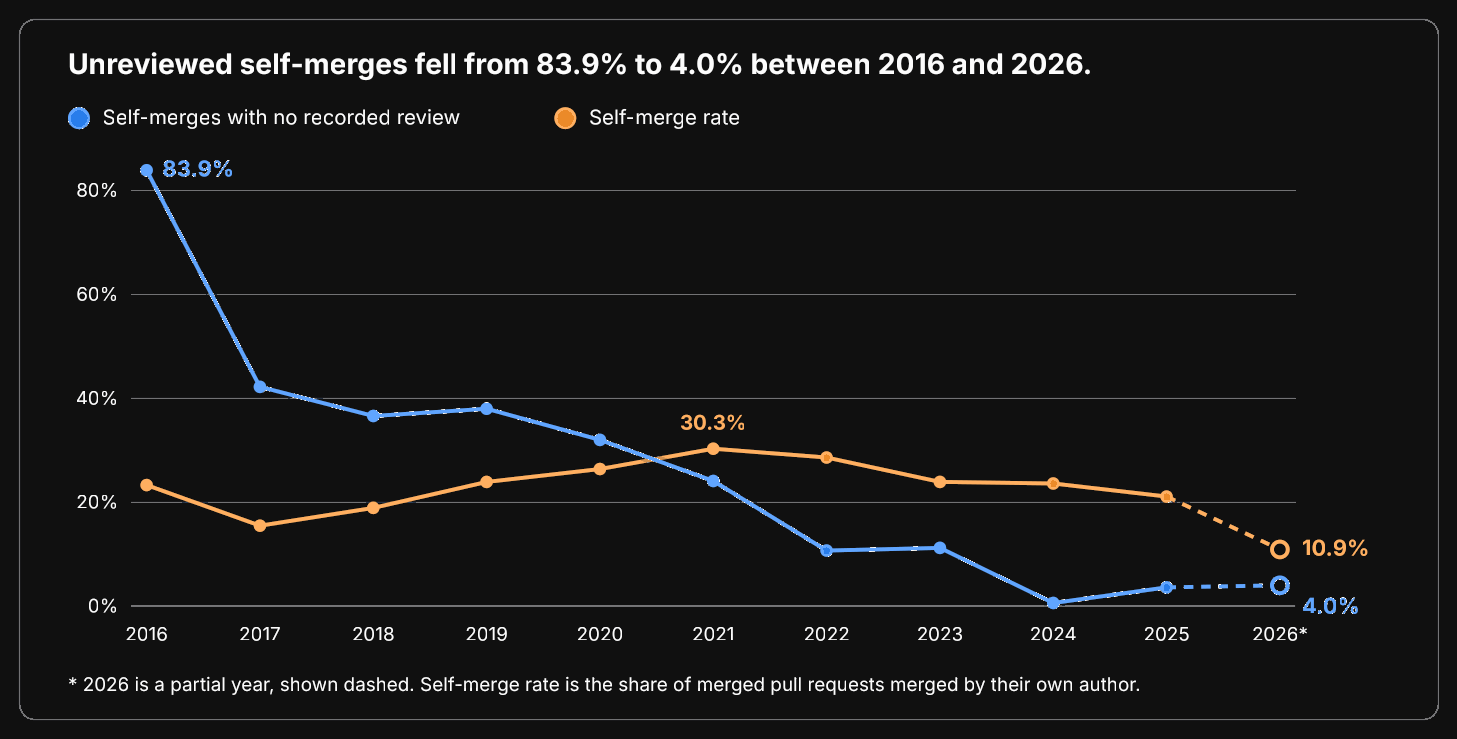
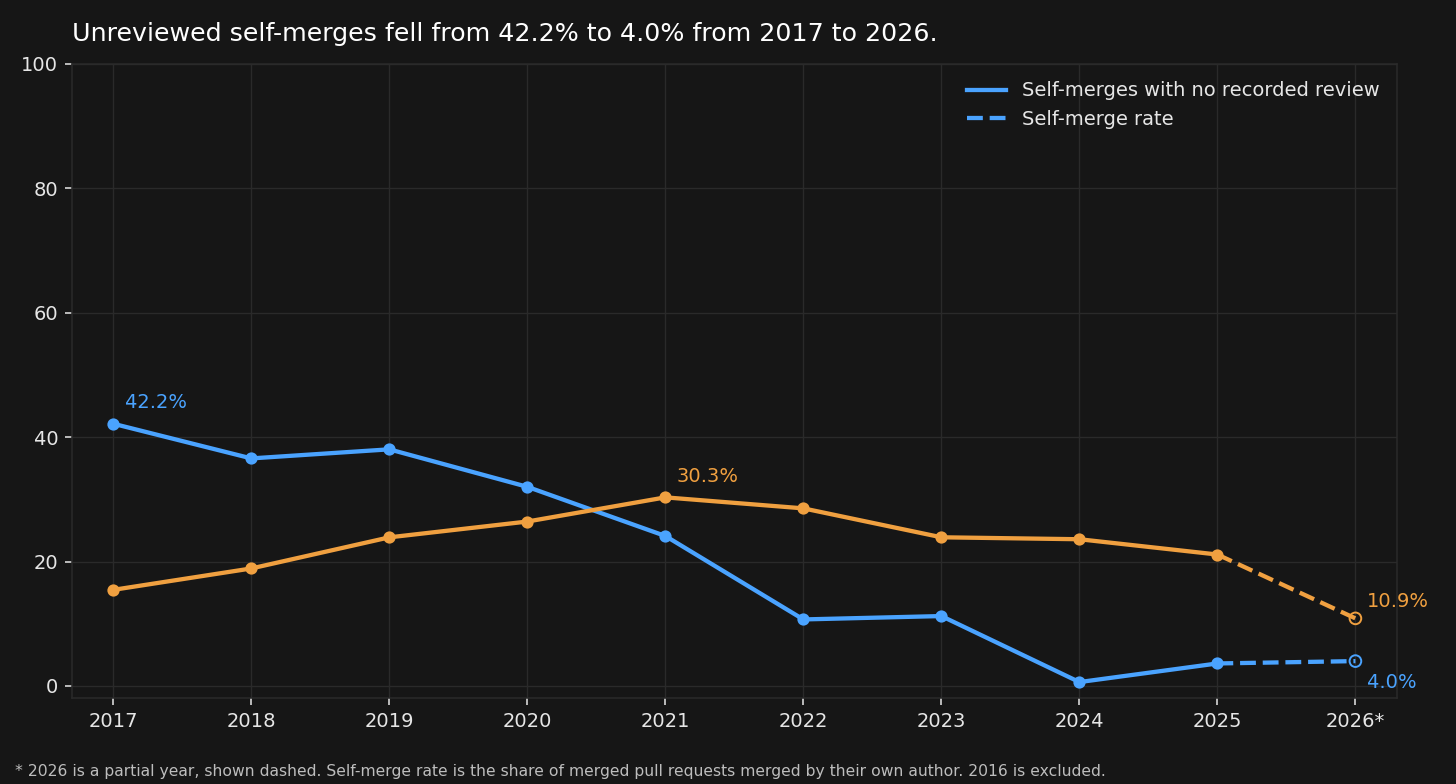
docs: start the article review charts in 2017
The images still opened at 83.9 percent in 2016. They now start at 42.2 percent in 2017, and the cache key changes with them.

diff --git a/articles/who-governs-bitcoins-code/index.html b/articles/who-governs-bitcoins-code/index.html
@@ -131,8 +131,8 @@
 <p>Diligence asks about funding concentration because it is how influence enters an organization without a vote. The people who control the merge gate depend on a small number of discretionary grants, many renewed annually, with no disclosure owed to holders. A 2023 budget of $8.4 million maintains software that now secures $111 billion in US ETF assets alone.</p>
 <h2 id="review-practice-has-improved-and-it-rests-on-custom">Review practice has improved, and it rests on custom</h2>
 <figure class="chart-preserve">
-<img src="charts/review-practice.png?v=dark3" alt="Unreviewed self-merges fell from 42.2% in 2017 to 4.0% in 2026, yet no rule requires review. Maintainer-merged pull requests, 2016 to 2026. Self-merges with zero reviews fall from 42.2% in 2017 to 4.0% in 2026, with 30.3% in 2021 marked. Self-merge rate falls from about 25% to 10.9%. Average review depth on maintainer-merged pull requests rises from 1.0 in 2016 to 10.0 in 2025 and 7.8 in 2026. A written rule sets no minimum review count.">
-<figcaption>BTCDecoded Bitcoin Core governance research, TEMPORAL_ANALYSIS_REPORT, 2016 to 2026 to date (2026 is a partial year). GitHub review records exist from 2016.</figcaption>
+<img src="charts/review-practice.png?v=2017" alt="Unreviewed self-merges fell from 42.2% in 2017 to 4.0% in 2026, yet no rule requires review. The chart starts in 2017. Self-merge rate is 30.3% in 2021 and 10.9% in partial 2026. Average review depth ends at 7.8. A written rule sets no minimum review count.">
+<figcaption>BTCDecoded Bitcoin Core governance research, TEMPORAL_ANALYSIS_REPORT, 2017 to 2026 to date (2026 is a partial year). 2016 is excluded because it is the first year review objects exist.</figcaption>
 </figure>
 
 <p>Since GitHub review records begin in 2016, average review depth on maintainer-merged pull requests has risen from 1.0 to 7.8, and zero-review self-merges have fallen from 42.2% of self-merges in 2017 to 4.0%. Active reviewers grew from 22 to 94 by 2021, and pull requests per reviewer fell from 71 to 21. A 2025 <a href="https://blog.quarkslab.com/bitcoin-core-audit.html">Quarkslab audit</a> called Core the most mature and well tested codebase its engineers had assessed and found no high-impact issues in its peer-to-peer scope.</p>

diff --git a/articles/bitcoin-has-governance/index.html b/articles/bitcoin-has-governance/index.html
@@ -157,7 +157,7 @@
 </ul>
 <p>Review practice has tightened since 2016, while the self-merge rate stayed high until 2021. The self-merge rate is the share of merged pull requests merged by their own author.</p>
 <figure class="chart-preserve">
-<img src="charts/self-merge-line.png?v=dark3" alt="Unreviewed self-merges fell from 42.2% in 2017 to 4.0% in 2026. The chart still draws 2016, and that year is not the baseline. Self-merges with no recorded review are charted from 2016, and the cited baseline is 42.2% in 2017, pass 30.3% in 2021, and end at 4.0% in partial 2026, shown dashed. Self-merge rate ends at 10.9% in partial 2026. Self-merge rate is the share of merged pull requests merged by their own author.">
+<img src="charts/self-merge-line.png?v=2017" alt="Unreviewed self-merges fell from 42.2% in 2017 to 4.0% in 2026. The chart starts in 2017. Self-merges with no recorded review pass 30.3% in 2021 and end at 4.0% in partial 2026, shown dashed. Self-merge rate ends at 10.9% in partial 2026.">
 </figure>
 
 <p>Funding is concentrated as well. A 1A1z report found that $8.4 million was spent on Bitcoin developers in 2023. Among the eight sponsors that rely only on donations, the top three receive 62.25% of their funding from a single source, Jack Dorsey.</p>

diff --git a/articles/bitcoin-has-governance/index.md b/articles/bitcoin-has-governance/index.md
@@ -83,7 +83,7 @@ The author's analysis of about 17,000 merged Bitcoin Core pull requests through 
 Review practice has tightened since 2016, while the self-merge rate stayed high until 2021. The self-merge rate is the share of merged pull requests merged by their own author.
 
 <figure class="chart-preserve">
-<img src="charts/self-merge-line.png?v=dark3" alt="Unreviewed self-merges fell from 42.2% in 2017 to 4.0% in 2026. The chart still draws 2016, and that year is not the baseline. Self-merges with no recorded review are charted from 2016, and the cited baseline is 42.2% in 2017, pass 30.3% in 2021, and end at 4.0% in partial 2026, shown dashed. Self-merge rate ends at 10.9% in partial 2026. Self-merge rate is the share of merged pull requests merged by their own author.">
+<img src="charts/self-merge-line.png?v=2017" alt="Unreviewed self-merges fell from 42.2% in 2017 to 4.0% in 2026. The chart starts in 2017. Self-merges with no recorded review pass 30.3% in 2021 and end at 4.0% in partial 2026, shown dashed. Self-merge rate ends at 10.9% in partial 2026.">
 </figure>
 
 Funding is concentrated as well. A 1A1z report found that $8.4 million was spent on Bitcoin developers in 2023. Among the eight sponsors that rely only on donations, the top three receive 62.25% of their funding from a single source, Jack Dorsey.

diff --git a/articles/who-governs-bitcoins-code/index.md b/articles/who-governs-bitcoins-code/index.md
@@ -100,7 +100,7 @@ Diligence asks about funding concentration because it is how influence enters an
 ## Review practice has improved, and it rests on custom
 
 <figure class="chart-preserve">
-<img src="charts/review-practice.png?v=dark3" alt="Unreviewed self-merges fell from 42.2% in 2017 to 4.0% in 2026, yet no rule requires review. Maintainer-merged pull requests, 2016 to 2026. Self-merges with zero reviews fall from 42.2% in 2017 to 4.0% in 2026, with 30.3% in 2021 marked. Self-merge rate falls from about 25% to 10.9%. Average review depth on maintainer-merged pull requests rises from 1.0 in 2016 to 10.0 in 2025 and 7.8 in 2026. A written rule sets no minimum review count.">
+<img src="charts/review-practice.png?v=2017" alt="Unreviewed self-merges fell from 42.2% in 2017 to 4.0% in 2026, yet no rule requires review. The chart starts in 2017. Self-merge rate is 30.3% in 2021 and 10.9% in partial 2026. Average review depth ends at 7.8. A written rule sets no minimum review count.">
 <figcaption>BTCDecoded Bitcoin Core governance research, TEMPORAL_ANALYSIS_REPORT, 2016 to 2026 to date (2026 is a partial year). GitHub review records exist from 2016.</figcaption>
 </figure>
 
